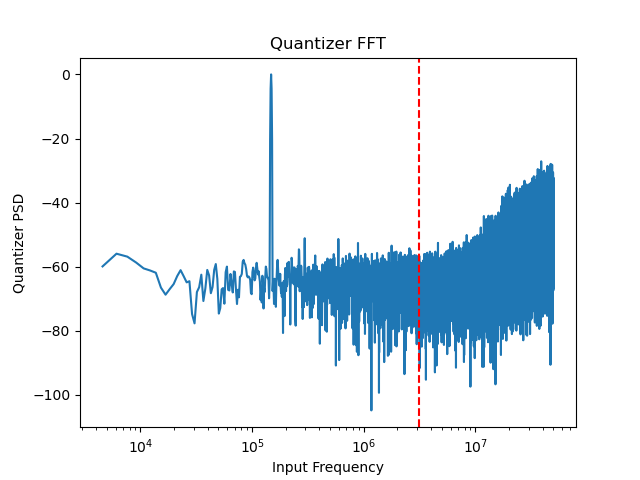
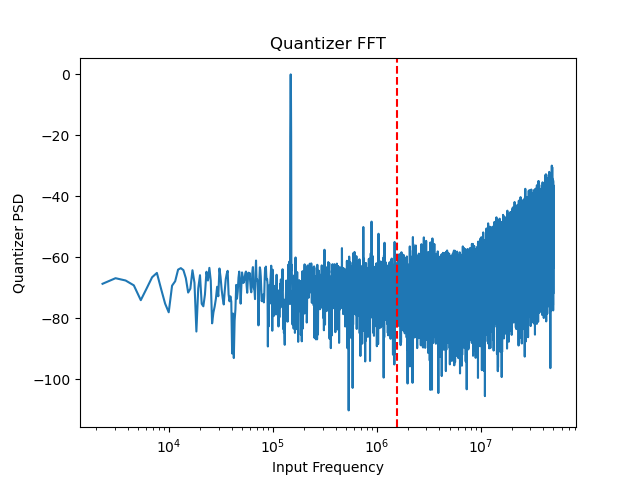
removed continuous mode, incremental only, FFT working

diff --git a/python/nssar.py b/python/nssar.py
@@ -7,7 +7,7 @@ using the Silva-Steensgard architecture, with an
 optional reset
 '''
 
-from scipy.signal import iirfilter, windows, lfilter
+from scipy.signal import windows
 import numpy as np
 import pandas as pd
 import matplotlib.pyplot as plt
@@ -16,7 +16,6 @@ import pdb
 class NSSAR:
 
     def __init__(self, n_quantizer_bits=3, cap_mismatch_sigma=0.05, \
-                 n_fixed_point_bits=24, n_fractional_bits=16, filter_order=4,
                  vdd=1.0, vss=0, max_nfft=2**20, max_osr=256):
         '''
         set class with hardware constraints and initialize register fields
@@ -24,20 +23,11 @@ class NSSAR:
         '''
         self._reg = {
             'nfft': 2**12,
-            'osr': 16,
+            'osr': 32,
             'fs': 100e6,
-            'incremental_mode': True,
             'do_dwa': True,
-            'reset_dwa': True,
-            'offset_samples': 1500
+            'reset_dwa': True
         }
-        normalized_fc = 1 / self._reg['osr']
-        b, a = iirfilter(filter_order, normalized_fc, \
-                         btype='lowpass', output='ba', ftype='butter')
-        self._n_fractional_bits = n_fractional_bits
-        self._n_fixed_point_bits = n_fixed_point_bits
-        self._reg['filter_numerator'] = b
-        self._reg['filter_denominator'] = a
         self._cp = np.random.normal(1, cap_mismatch_sigma, \
                                     2 ** n_quantizer_bits)
         self._cn = np.random.normal(1, cap_mismatch_sigma, \
@@ -62,15 +52,13 @@ class NSSAR:
         self._generate_control_signals()
         self._generate_input_signals(signal_specs)
         nfft_derived = self._reg['nfft'] * self._reg['osr']
-        offset = self._reg['osr'] * self._reg['offset_samples']
-        for i in range(offset + nfft_derived):
+        for i in range(nfft_derived):
             self._calculate_integrator_to_quantizer(i)
             self._calculate_sample_to_quantizer(i)
             self._quantize(i)
             self._update_dwa(i)
             self._update_analog_integrators(i)
             self._update_incremental_integrators(i)
-            self._step_iir_filter(i)
         self._write_data_to_memory()
 
     def write_register_value(self, key, value):
@@ -124,13 +112,14 @@ class NSSAR:
         output = output.set_index('t')
         return output
 
-    def plot_output_fft(self, ax=None):
+    def plot_output_fft(self, ax=None, color=None, label=None):
         '''
         Plot the FFT of the output and return a handle of the figure object
         on which it's plotted. If ax is none, create and set up a new figure
         and return it. If ax is not none, assume it's already set up and plot
         on that
         '''
+        color = 'k' if color is None else color
         q_data = self._get_windowed_fft_data()
         T = self._reg['osr'] / self._reg['fs']
         freqs = np.fft.fftfreq(self._reg['nfft'], T)[1:1+(self._reg['nfft'] // 2)]
@@ -141,13 +130,18 @@ class NSSAR:
         fft_pow_db = 10 * np.log10(fft_pow)
         if ax is None:
             fig, ax = plt.subplots()
-            ax.set_xscale('log')
+            # ax.set_xscale('log')
             ax.set_xlabel('Input Frequency')
             ax.set_ylabel('Output PSD')
             ax.set_title('Output FFT')
         else:
             fig = ax.get_figure()
-        ax.plot(freqs[2:], fft_pow_db[2:])
+        if label is None:
+            ax.plot(freqs[2:], fft_pow_db[2:], color, linewidth=0.5, \
+                    alpha=0.5)
+        else:
+            ax.plot(freqs[2:], fft_pow_db[2:], color, linewidth=0.5, \
+                    label=label, alpha=0.5)
         return fig
 
     def plot_quantizer_fft(self, ax=None):
@@ -269,7 +263,7 @@ class NSSAR:
         '''
         # derived parameters
         T = 1 / self._reg['fs']
-        n_total_samples = self._get_total_samples()
+        n_total_samples = self._reg['nfft'] * self._reg['osr']
         self._t = np.arange(n_total_samples) * T
         self._error = np.zeros(self._t.shape)
         self._i1 = np.zeros(self._t.shape)
@@ -290,12 +284,10 @@ class NSSAR:
         '''
         Generate reset and sample_output signals
         '''
-        n_samples = self._get_total_samples()
         osr = self._reg['osr']
+        n_samples = self._reg['nfft'] * osr
         i = np.arange(n_samples)
-        incremental_reset = (i % osr == 0) & self._reg['incremental_mode']
-        global_reset = i == 0
-        self._reset = incremental_reset | global_reset
+        self._reset = (i % osr == 0)
         self._sample_output = (i % osr) == (osr - 1)
 
 
@@ -370,10 +362,6 @@ class NSSAR:
             self._d2_incremental[i] = self._d1_incremental[i] + \
                 self._d2_incremental[i - 1]
 
-    def _step_iir_filter(self, i):
-        num = self._reg['filter_numerator']
-        den = self._reg['filter_denominator']
-
     def _write_data_to_memory(self):
         adc_data = self._d2_incremental[self._sample_output]
         self._result_memory[:self._reg['nfft']] = adc_data[-self._reg['nfft']:]
@@ -406,13 +394,6 @@ class NSSAR:
         fft_window = windows.blackman(top_nfft_num)
         windowed_data = fft_window * data
         return np.fft.fft(windowed_data)[1:(1 + top_nfft_num // 2)]
-
-    def _get_total_samples(self):
-        '''
-        returns the total number of samples in the conversion
-        '''
-        return self._reg['osr'] * \
-            (self._reg['nfft'] + self._reg['offset_samples'])
     
     def _run_sar(self, j, pointer):
         '''
@@ -483,11 +464,9 @@ class NSSAR:
             (value <= self._result_memory.shape[0])
         is_legal_osr_value = (key == 'osr') and (value <= self._max_osr)
         is_legal_fs = (key == 'fs') and (type(value) == type(1))
-        is_legal_offset_samples = (key == 'offset_samples') and \
-            (type(value) == type(1)) and value <= self._get_total_samples()
         is_legal_boolean_value = type(value) == type(True)
         is_legal_register_value = is_legal_nfft_value or is_legal_osr_value \
-            or is_legal_fs or is_legal_offset_samples or is_legal_boolean_value
+            or is_legal_fs or is_legal_boolean_value
         if not is_legal_register_value:
             raise IllegalRegisterValueError(key, value)
         

diff --git a/python/nssar_test.py b/python/nssar_test.py
@@ -32,8 +32,8 @@ def test_fft_plots():
 def test_dwa():
     sar = NSSAR(cap_mismatch_sigma=0.1)
     fs = 100e6
-    prime = 97
-    nfft = 2**12
+    prime = 997
+    nfft = 2**15
     signal_specs = [
         {
             'amplitude': 0.4,
@@ -41,21 +41,27 @@ def test_dwa():
             'phase': 0
         }
     ]
-    sar.convert(signal_specs)
     sndr = list()
     sfdr = list()
+    sar.convert(signal_specs)
     sndr.append(sar.get_sndr())
     sfdr.append(sar.get_sfdr())
+    fig = sar.plot_output_fft(label='DWA w/Reset')
+    ax = fig.get_axes()[0]
     sar.write_register_value('reset_dwa', False)
     sar.convert(signal_specs)
     sndr.append(sar.get_sndr())
     sfdr.append(sar.get_sfdr())
+    sar.plot_output_fft(ax, color='b', label='DWA w/o Reset')
     sar.write_register_value('do_dwa', False)
     sar.convert(signal_specs)
+    sar.plot_output_fft(ax, color='r', label='No DWA')
+    ax.legend()
     sndr.append(sar.get_sndr())
     sfdr.append(sar.get_sfdr())
     print(sndr)
     print(sfdr)
+    fig.savefig('./img/dwa_compare.png')
 
 
 def main():
